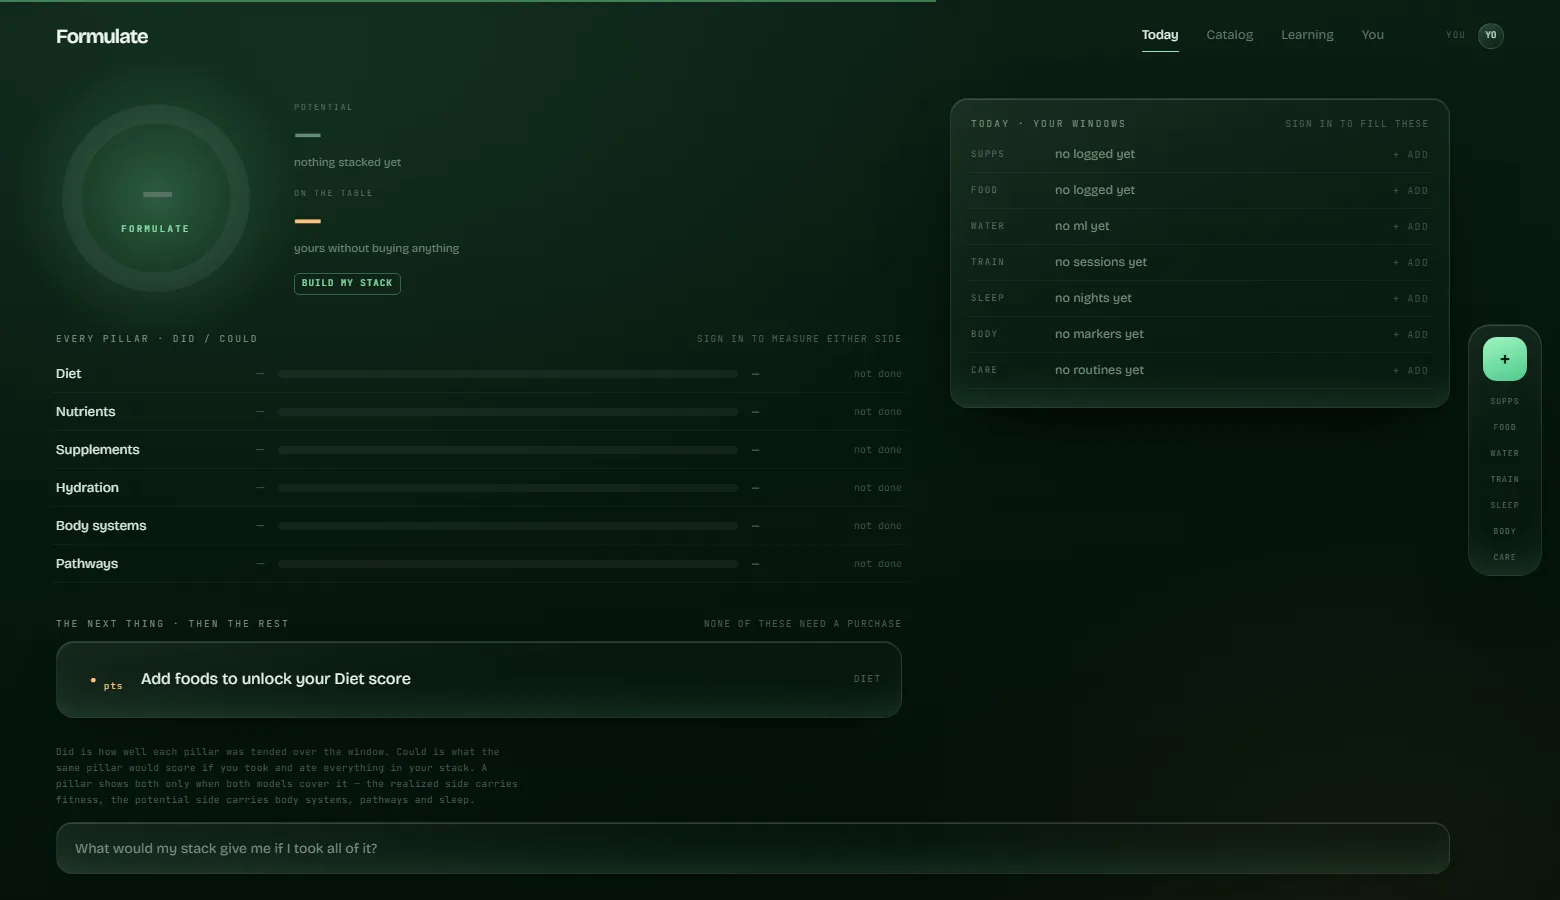
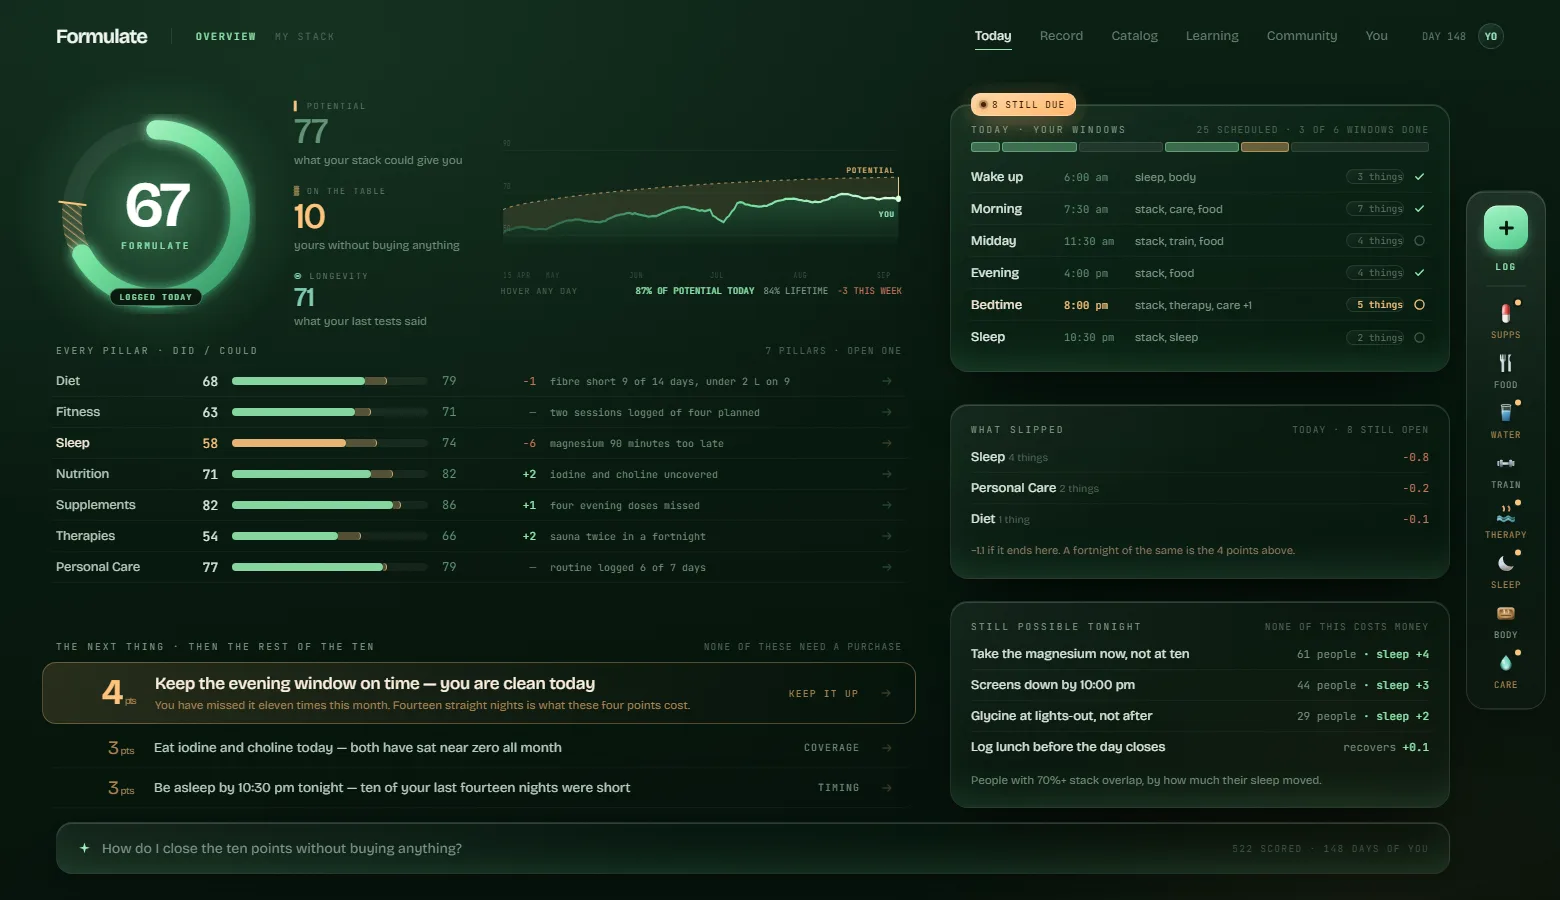
The hero shows the demo, and says that it does
The picture was the live app, which has no accounts in it — so what it
photographed was one explainer card on a dark field. A landing page whose
picture is an empty product argues against itself, and "honest" is not worth
much when the honest thing on display is nothing.

It is the demo now: /v2/app.html, the authored account the design was drawn
around, captured from this origin. That is the app at the density it is
actually for — the ring, seven pillars scored against what the stack could
give, the day's windows, what slipped, what is still possible tonight.

It says so twice. DEMO ACCOUNT in the window chrome, warm rather than grey
because a disclosure the eye skips is not a disclosure, and a line under the
picture with a link into the demo itself. The fix for showing invented numbers
is to say they are invented and let people walk through them, not to hide them
in a picture nobody can open.

The capture script's verification moved with it: it now requires #ring,
#meter and #prows, and rejects the live app's onboarding copy AND its
signed-out empty state. Point CONSOLE_SHOT_URL somewhere else and it fails
rather than quietly photographing whatever is there — which is the entire job
of that list, and the reason it exists at all.

What a brand-new signed-out visitor sees in the real app is a separate
question, being worked separately; it is not what this page should be a
picture of.

diff --git a/src/components/console/console-hero.tsx b/src/components/console/console-hero.tsx
@@ -6,13 +6,20 @@
  * Two decisions carried over from the prototype (scratchpad/formulate-show)
  * are worth keeping in words, because both were argued for there:
  *
- * THE SCREENSHOT IS THE REAL APP. The prototype embeds the running app rather
- * than a hand-built miniature, on the grounds that a miniature has to be
- * maintained beside the thing it depicts and drifts the first time either one
- * moves. Its comment: "this page cannot advertise a product that does not
- * exist." That principle is kept — the picture below is a capture of
- * app.formulate-health.app/today, taken by a script, not drawn — but not the
- * iframe, which the app refuses outright. See scripts/capture-console.mjs.
+ * THE SCREENSHOT IS A REAL SCREEN, AND IT SAYS WHOSE. The prototype embeds a
+ * running app rather than a hand-built miniature, on the grounds that a
+ * miniature has to be maintained beside the thing it depicts and drifts the
+ * first time either one moves. Its comment: "this page cannot advertise a
+ * product that does not exist."
+ *
+ * That still holds, with one correction the product forced. A picture of the
+ * LIVE app is a picture of an empty one — there are no accounts yet, so it
+ * photographed a single explainer card on a dark field, which advertises
+ * nothing. So the picture is the demo at /v2: the authored account the design
+ * was drawn around, the app at the density it is actually for. The window is
+ * labelled DEMO ACCOUNT and the demo is linked under it, because the fix for
+ * showing invented numbers is to say they are invented, not to hide them in a
+ * picture nobody can open. See scripts/capture-console.mjs.
  *
  * TWO ACTIONS, EQUAL GEOMETRY. One filled and one outlined rather than a
  * button and a text link: two filled buttons of the same colour read as a
@@ -34,10 +41,17 @@ import {
 } from "@/components/console/console-bits";
 
 /** The console, photographed. Regenerate with `node scripts/capture-console.mjs`
- *  — that file carries the reasoning for why this is a capture and not the
- *  live frame the prototype used (short version: the app answers
- *  `X-Frame-Options: DENY`, so the frame was a permanent grey box). */
+ *  — that file carries the reasoning for why this is a capture rather than
+ *  the live frame the prototype used, and for why it photographs the demo.
+ *
+ *  Short version of the second one: the live app has no accounts in it yet, so
+ *  a picture of it was one explainer card on an empty field — a landing page
+ *  arguing against itself. This is the demo at /v2, the authored account the
+ *  design was drawn around, which is the app at the density it is FOR. */
 const CONSOLE_SHOT = "/console-today.webp";
+/** The same demo, walkable. Named under the picture rather than buried,
+ *  because a demo you have to discover is a demo you are hiding. */
+const DEMO_HREF = "/v2/index.html";
 
 export function ConsoleNav() {
   return (
@@ -91,6 +105,7 @@ export function ConsoleHero() {
                 <span className="wd" />
                 <span className="wd" />
                 <span className="cn-winurl mono">formulate-health.app/today</span>
+                <span className="cn-windemo mono">DEMO ACCOUNT</span>
               </div>
               <div className="cn-appshot">
                 {/* Under a click layer, so the whole picture is one large
@@ -99,7 +114,7 @@ export function ConsoleHero() {
                 {/* eslint-disable-next-line @next/next/no-img-element */}
                 <img
                   src={CONSOLE_SHOT}
-                  alt="The Formulate console: today's pillars, the log rail and the ask bar."
+                  alt="The Formulate console on a demo account: the day's score ring, every pillar scored against what the stack could give, and the day's windows."
                   width={1560}
                   height={900}
                   fetchPriority="high"
@@ -114,6 +129,10 @@ export function ConsoleHero() {
                 </TrackedAppLink>
               </div>
             </div>
+            <p className="cn-democap">
+              A demo account, so the screens have something in them.{" "}
+              <a href={DEMO_HREF}>Walk through it →</a>
+            </p>
           </div>
         </div>
       </div>

diff --git a/src/app/console.css b/src/app/console.css
@@ -582,3 +582,32 @@
 @media (max-width: 560px) {
   .cn-shelf { grid-template-columns: repeat(2, minmax(0, 1fr)); }
 }
+
+/* The window's own label. Warm rather than grey: a disclosure the eye skips is
+   not a disclosure. */
+.cn-windemo {
+  margin-left: auto;
+  font-size: 8px;
+  letter-spacing: 0.18em;
+  color: var(--warm);
+  padding: 3px 8px;
+  border-radius: 5px;
+  border: 1px solid rgba(255, 194, 122, 0.3);
+  white-space: nowrap;
+}
+/* Said again in words under the picture, with the way into it. The label alone
+   tells you the number is not yours; this tells you where it came from. */
+.cn-democap {
+  margin-top: 11px;
+  font-size: 11.5px;
+  line-height: 1.5;
+  color: var(--faint);
+}
+.cn-democap a {
+  color: var(--g-soft);
+  border-bottom: 1px solid rgba(95, 143, 116, 0.4);
+  transition: color 0.22s;
+}
+.cn-democap a:hover {
+  color: var(--g);
+}
